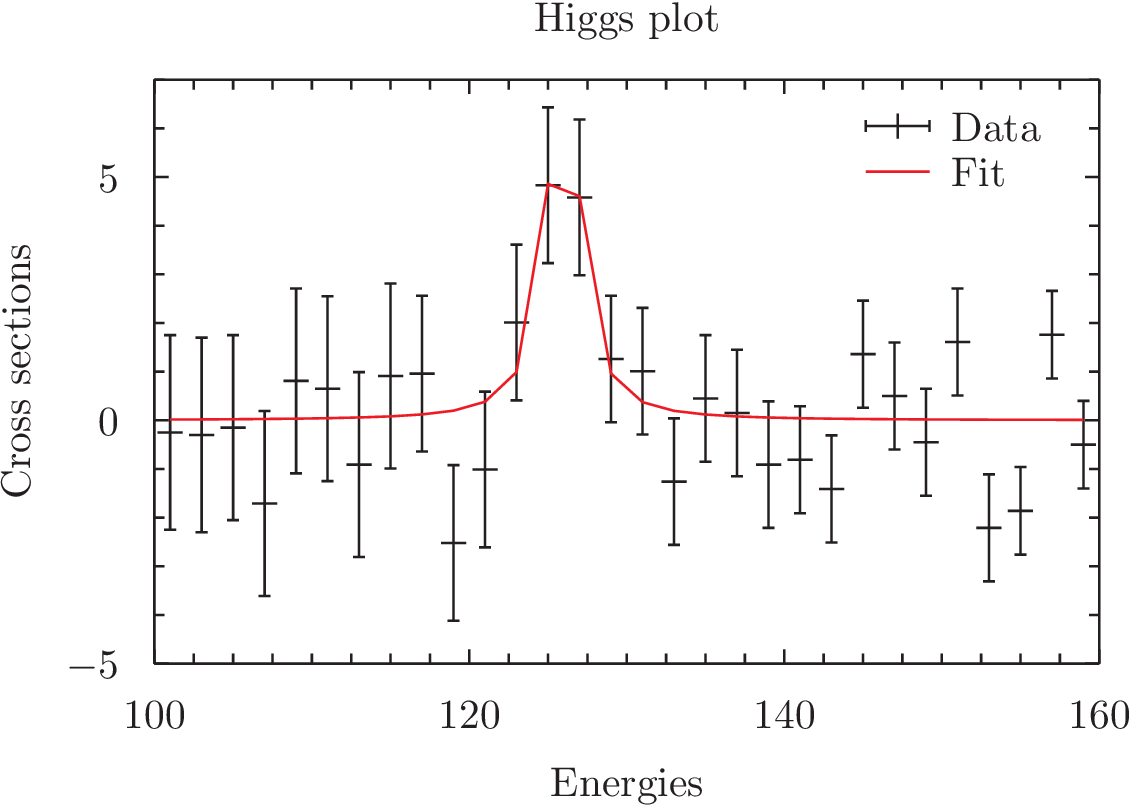
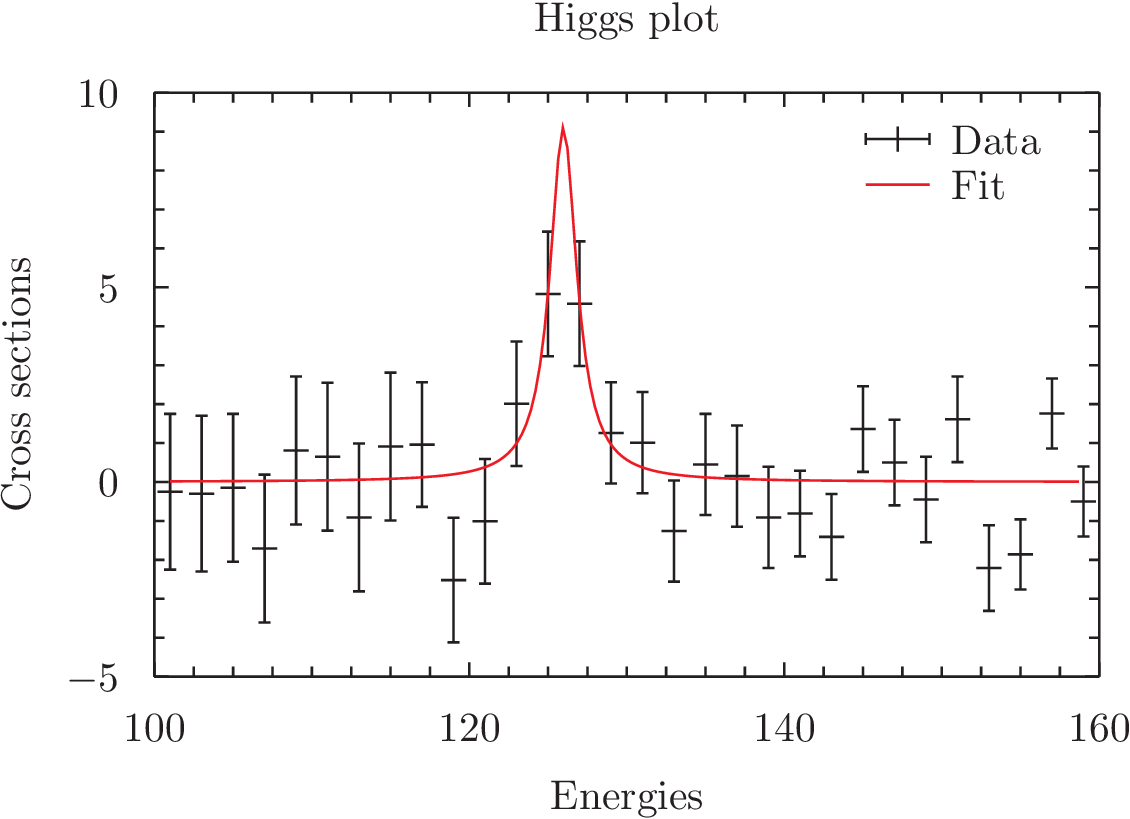
Pulled myself together and made the fit function more smooth.

diff --git a/homeworks/minimization/PartB/main.cs b/homeworks/minimization/PartB/main.cs
@@ -45,8 +45,18 @@ class main{
 
     var higgsfit=new StreamWriter("higgsfit.txt");
 
-    for(int i=0; i<E.size; i++){
-        higgsfit.WriteLine($"{E[i]} {BW(xmin,E[i])} {cross[i]} {err[i]}");
+    int k=200;
+    vector energies=new vector(k);
+
+    double splits=(E[E.size-1]-E[0])/k;
+
+    energies[0]=E[0];
+    for(int j=1; j<k; j++){
+        energies[j]+=energies[j-1]+splits;
+    }
+
+    for(int i=0; i<k; i++){
+        higgsfit.WriteLine($"{energies[i]} {BW(xmin,energies[i])}");
     }
     higgsfit.Close();
     }
